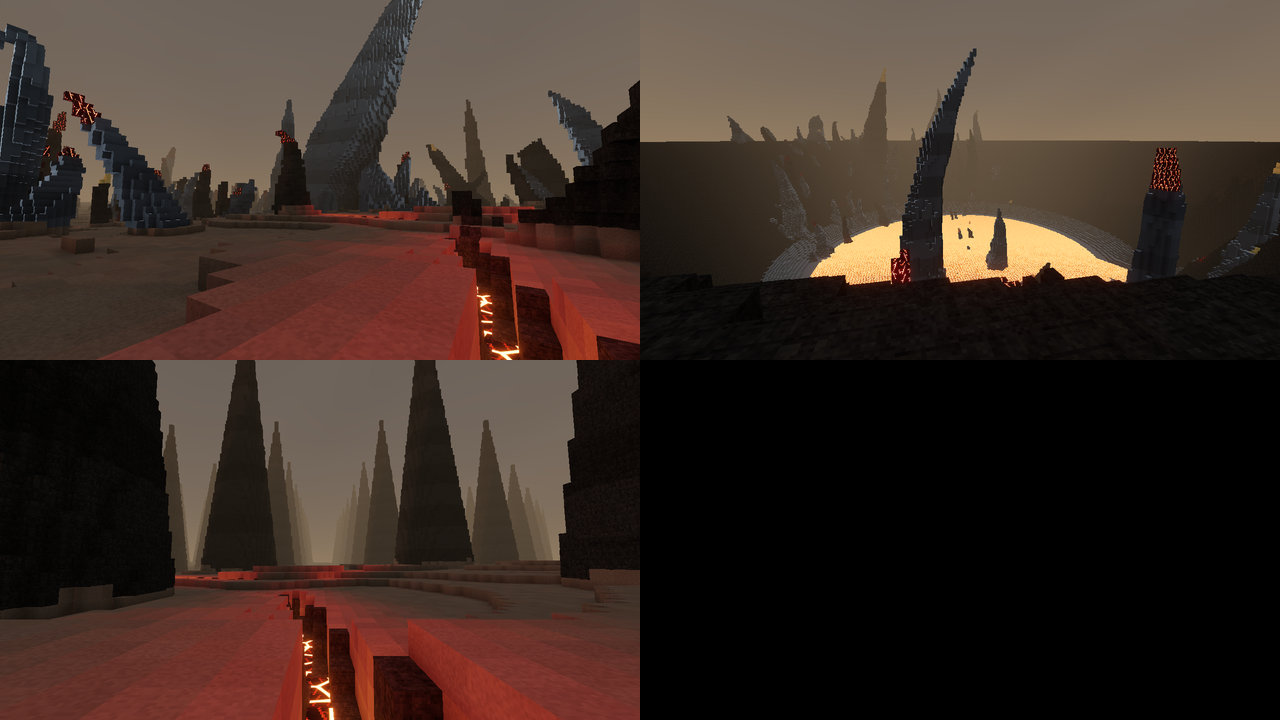
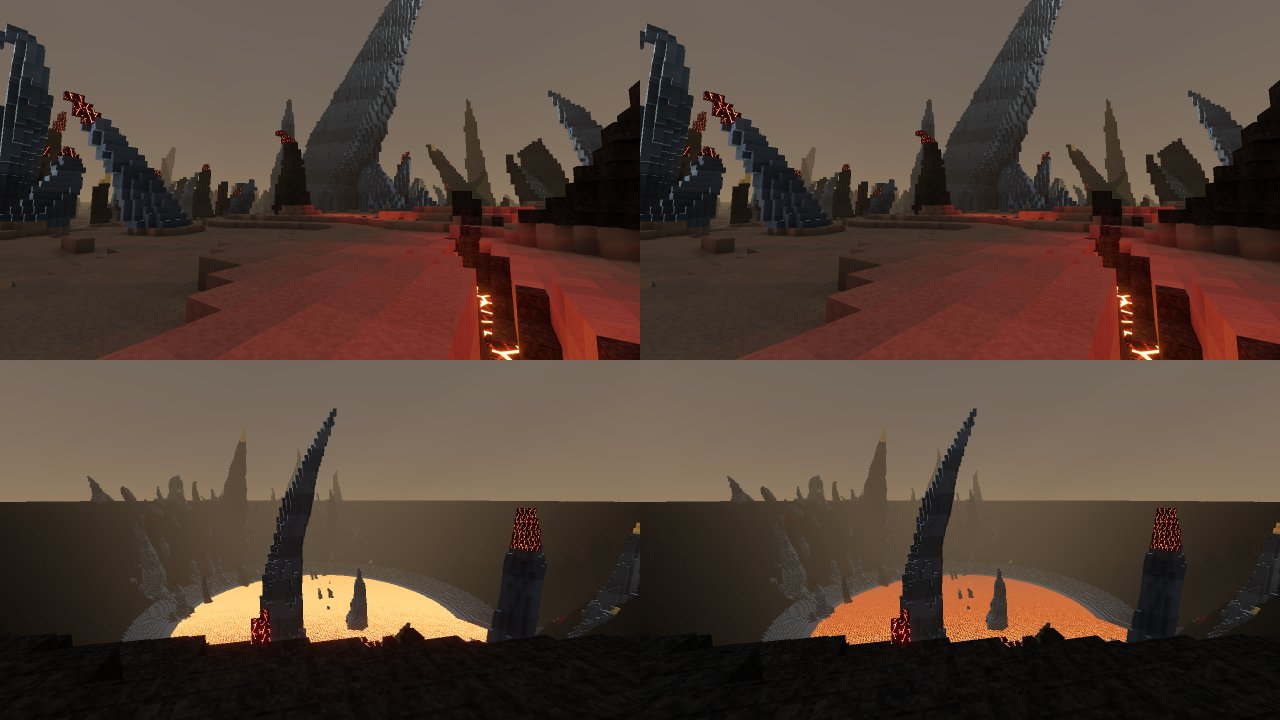
Preserve lava color across distant crack filtering

diff --git a/packages/client/src/engine/terrain-material.ts b/packages/client/src/engine/terrain-material.ts
@@ -26,6 +26,20 @@ export const TERRAIN_EMISSION_SCALE = 8;
 // Red-dominant ember seams need exposure by luminance, not just a red channel
 // above threshold. Keep their authored hue/mask and steady propagated RGB intact.
 export const TERRAIN_EMBER_EMISSION_GAIN = 4;
+// Saved Float32 continuum29 calibration, packed into eight vec4 uniforms.
+// Spacing is 1/64 through w=0.25, then 1/16; no runtime ACES or extra noise.
+export const TERRAIN_LAVA_EMISSION_GAINS = Object.freeze([
+  1, 0.8067225217819214, 0.6518799066543579, 0.5530297160148621,
+  0.4851410984992981, 0.43541669845581055, 0.3972267210483551,
+  0.36684277653694153, 0.34200602769851685, 0.32126790285110474,
+  0.30365172028541565, 0.28847524523735046, 0.27524518966674805,
+  0.2635980248451233, 0.2532569169998169, 0.2440076619386673,
+  0.23568181693553925, 0.2092752754688263, 0.19037340581417084,
+  0.17622464895248413, 0.16531772911548615, 0.15675796568393707,
+  0.14999130368232727, 0.1447933167219162, 0.14088858664035797,
+  0.13798388838768005, 0.13598015904426575, 0.13482238352298737,
+  0.13448631763458252,
+]);
 
 export interface TerrainUniforms {
   readonly viewMode: IUniform<number>;
@@ -99,6 +113,8 @@ export function createTerrainMaterials(clip: Plane): {
     ),
   };
   const gloss = { value: BLOCK_REGISTRY.map((block) => block.gloss) };
+  const lavaGainTable = new Float32Array(32);
+  lavaGainTable.set(TERRAIN_LAVA_EMISSION_GAINS);
   const materials = [0, 1, 2, 3, 4].map((kind) => {
     const material = new MeshLambertMaterial({
       color: new Color(1, 1, 1),
@@ -110,7 +126,7 @@ export function createTerrainMaterials(clip: Plane): {
       clipShadows: true,
     });
     material.customProgramCacheKey = () =>
-      `coldfront-terrain-r186-v3-ibara-class-${kind}${kind === 0 ? "-strata-v2-reflected" : kind === 4 ? "-filtered-lava-v1" : ""}`;
+      `coldfront-terrain-r186-v3-ibara-class-${kind}${kind === 0 ? "-strata-v2-reflected" : kind === 4 ? "-filtered-lava-v1-continuum29-v1" : ""}`;
     material.onBeforeCompile = (shader) => {
       Object.assign(shader.uniforms, {
         uViewMode: uniforms.viewMode,
@@ -129,6 +145,8 @@ export function createTerrainMaterials(clip: Plane): {
         uWaterDepthLinearize: uniforms.waterDepthLinearize,
         uWaterDepthReady: uniforms.waterDepthReady,
       });
+      if (kind === 4)
+        shader.uniforms.uLavaEmissionGains = { value: lavaGainTable };
       shader.vertexShader = shader.vertexShader.replace(
         "#include <common>",
         `#include <common>
@@ -164,6 +182,7 @@ precision highp sampler2DArray;
 precision highp int;
 uniform float uViewMode;
 uniform vec4 uEmission[${BLOCK_REGISTRY.length}];
+${kind === 4 ? "uniform vec4 uLavaEmissionGains[8];" : ""}
 uniform float uGloss[${BLOCK_REGISTRY.length}];
 flat varying highp vec2 vFeatureIdParts;
 uniform sampler2DArray uTiles;
@@ -240,7 +259,7 @@ float cfLavaCrackIntegral(float offset) {
   float d=abs(offset), t=clamp((d-0.025)/0.115,0.0,1.0);
   return sign(offset)*(min(d,0.025)+0.115*(t-t*t*t+0.5*t*t*t*t));
 }
-float cfLavaCracks(vec2 world, float seconds) {
+float cfLavaCracks(vec2 world, float seconds, out float footprintFade) {
   vec2 p=world*0.62 + vec2(seconds*0.018,seconds*0.011);
   p += vec2(cfMacro(world/7.0),cfMacro(world/7.0+17.0))*0.38;
   float footprint=max(length(dFdx(p)),length(dFdy(p)));
@@ -259,7 +278,21 @@ float cfLavaCracks(vec2 world, float seconds) {
   float cracks=clamp((cfLavaCrackIntegral(gap+width*0.5)-cfLavaCrackIntegral(gap-width*0.5))/width,0.0,1.0);
   // Once individual cells approach a pixel, retain the mask's sampled area
   // mean (0.175), not full emission. Near cracks and their motion stay intact.
-  return mix(cracks,0.175,smoothstep(0.25,0.75,footprint));
+  footprintFade=smoothstep(0.25,0.75,footprint);
+  return mix(cracks,0.175,footprintFade);
+}
+${
+  kind === 4
+    ? `float cfLavaEmissionGain(float w) {
+  float scaled=w<0.25 ? w*64.0 : 16.0+(w-0.25)*16.0;
+  int index=int(min(27.0,floor(scaled)));
+  float fraction=scaled-float(index);
+  int next=index+1;
+  float low=uLavaEmissionGains[index/4][index%4];
+  float high=uLavaEmissionGains[next/4][next%4];
+  return mix(low,high,fraction);
+}`
+    : ""
 }`,
       );
       shader.fragmentShader = shader.fragmentShader.replace(
@@ -337,7 +370,8 @@ if(uViewMode<0.5) {
     float breath=1.0+0.1*sin(uDisplay*0.0011+phase);
     ${
       kind === 4
-        ? `float cracks=cfLavaCracks(worldFace,uDisplay*0.001);
+        ? `float lavaFootprintFade;
+    float cracks=cfLavaCracks(worldFace,uDisplay*0.001,lavaFootprintFade);
     outgoingLight *= mix(0.38,0.9,cracks);
     float sourceMask=cracks;`
         : `// P3 marks hot seams by red excess; cool dark crust stays unlit.
@@ -346,6 +380,12 @@ if(uViewMode<0.5) {
     // Shape the registry hue before HDR scaling so hot cracks retain colour
     // through ACES. This is presentation only; source light remains unchanged.
     float renderGain=block==${Block.EmberCrust.toFixed(1)} ? ${TERRAIN_EMBER_EMISSION_GAIN.toFixed(1)} : 1.0;
+    ${
+      kind === 4
+        ? `if(block==${Block.Lava.toFixed(1)} && lavaFootprintFade>0.0)
+      renderGain *= cfLavaEmissionGain(lavaFootprintFade);`
+        : ""
+    }
     outgoingLight += pow(source.rgb,vec3(2.2))*source.a*${TERRAIN_EMISSION_SCALE.toFixed(1)}*renderGain*sourceMask*breath;
   }
 } else if(uViewMode<1.5) {

diff --git a/docs/reports/phase-1-3-lava-continuum.md b/docs/reports/phase-1-3-lava-continuum.md
@@ -1,0 +1,52 @@
+# Distant lava correction · 13 October 2026
+
+The selected material keeps distant lava orange instead of washing it into a pale sheet. Nearby cracks and glow are preserved. This is a rendering change: generation `023af1e…`, the current camera catalogue and saved edits stay unchanged. Publication checks are in progress; the live build is still `3f7e0df`.
+
+## What changed and why
+
+The existing shader averages cracks that become smaller than a screen pixel. Brightness after tone mapping is nonlinear, so averaging the source brightness can make distant lava look brighter than the resolved cracks. A first endpoint-only correction reduced that washout but created a visible middle-distance band; it remains rejected.
+
+The selected version uses 29 fixed gain values across the existing screen-footprint transition. The values match the average displayed luminance of the original resolved crack pattern under the renderer's active ACES curve. They occupy 128 uniform bytes and require two indexed reads and a blend, reusing the existing crack calculation. There is no additional noise search or tone-mapping calculation inside the material. At zero fade, the added gain calculation is skipped. Other material classes, rock layers, propagated lighting, crack spacing and motion coefficients are preserved.
+
+This intentionally reduces unresolved source emission. Its calibration omits real bloom, reflection, fog and per-cell brightness breathing; actual screenshots therefore decide whether it is useful. No GPU speedup is claimed.
+
+## Images inspected
+
+![Lava material comparison](../postcards/wip/ibara.jpg)
+
+Forest above caldera; baseline left, selected material right. Root opens all four originals and this browser-rendered comparison sheet. The 1280×720 JPEG uses 102,880 bytes; the complete WIP folder totals 814,661 bytes.
+
+Root and a fresh Astra reviewer open both full caldera originals and prefer the candidate: less pale washout, richer orange lava and clearer balance with the dark thorns. Neither sees an obvious new seam, hole or hard transition ring in the inspected still. Dense near crackle and a flatter far surface remain.
+
+The same reviewers open the affected forest pair and judge a visual tie. Rock detail, haze and warm fissure illumination are preserved. The forest files differ; this is not a pixel-identity claim.
+
+Four near frames at 0, 250, 1,000 and 4,000 ms are each byte-identical to their baseline partner. All eight originals are opened. These static samples establish preservation at those times, not continuous playback, intermediate-distance behavior or flicker performance.
+
+| Capture | Complete terrain | Readiness | Result |
+|---|---:|---:|---|
+| HELL-2 caldera | 1,624 / 1,624 chunks | 212.322 s | Complete image; the 180-second timing failure remains |
+| HELL-1 forest | 1,306 / 1,306 chunks | 100.589 s | Complete image and passing 180-second check |
+
+Both captures have zero application errors or external requests, with browser/server cleanup. Source-server captures are separate from the production release journey. Existing calibrated scores remain HELL-1 **15/20**, HELL-2 **13/20**; this material comparison assigns no new formal score and does not complete phase 1.3.
+
+## Calibration and retained failures
+
+The fixed 256×256 midpoint sample over `[-64,64)²`, time zero and the original 0.62/m mask yields mean **0.17645149784739714**, compatible with the authored 0.175 under the fixed mean gate. The source-only luminance target is the mean of the tone-mapped resolved samples; each gain solves the same target after the mask is blended toward 0.175. The near gain is 1; the far gain is approximately 0.13448632.
+
+A 17-entry uniformly spaced table fails its interpolation check: maximum absolute luminance error **0.0073581131**, above **0.001**. That receipt remains failed. A separate representation subdivides only the four early intervals implicated by those saved errors: spacing 1/64 through fade 0.25, then 1/16. It reuses all 17 prior gains and the saved mask bytes, solving twelve additional values with no new spatial samples. All 113 fixed validation positions—including the previous 65—pass, with maximum error **0.0008504462**. The limit is unchanged. This finite CPU check does not establish a bound at every fade value or GPU arithmetic parity.
+
+Independent review verifies the active curve, table values, Float32 packing, indexing endpoints and material scope. Six existing shader-contract tests pass. After final formatting, outline/ghost/silhouette captures are regenerated and pass independent inspection, all **88 source bindings** and **8 artifact bindings**. The prior review remains preserved. This adds no interface words or controls and is not a new full-gallery claim.
+
+All **790 tests in 93 files** pass in **252.300 s**. The first check fails only on formatting of the new table and uniform assignment. Biome fixes it; parser-aware comparison confirms all **1,278 leaf tokens**, including template contents, remain identical, with a numeric-mutation sensitivity check. The initial standalone-scanner attempt cannot handle nested template context and is retained as a failed comparison method. The final **check/build pass in 17.898/7.735 s**. UI lint reports **106 gallery states, zero missing current rows and 23 bindings**. Existing 79 lint warnings and two informational notices remain.
+
+## Evidence and release work
+
[4 lines of base64/hex data omitted]
+- Canonical near evidence: `out/phase13/lava-near-proof/runs/2026-10-13T15-26-43.228Z/`, compared with `2026-10-13T07-59-45.938Z/`.
+- Reviews: `out/phase13/lava-continuum-pixel-review.md` and `out/phase13/continuum-formatted-hud-review/`.
+- Numeric studies: `D:/Dex/Temp/coldfront-lava-energy-0435cee/out/lava-energy/continuum-only/` (failed) and `continuum29/` (finite check passed).
+
+Local test/check/build are complete. Clean-checkout build, production gameplay journey, CI and publication readback must finish before this increment is reported live. The unchanged generator's atlas, slices and complete CPU benchmark remain applicable. The separately preferred branch-quota study is not included in this material release.

diff --git a/docs/progress.md b/docs/progress.md
@@ -23,6 +23,12 @@
 ## Current session
 **13 October 2026 · Codex · `codex/phase-1-3-world`**
 
+**Local material gates pass:** 790 tests / 93 files in **252.300 s**; after a formatting-only correction, check/build pass in **17.898/7.735 s**. The code's 1,278 parsed tokens are unchanged by formatting. UI lint reports 106 states, zero missing current rows and 23 bindings. Final refreshed HUD images pass independent review with 88 source and eight artifact bindings. Clean release build and production journey are next; no live-publication claim yet.
+
+**Selected lava correction, release checks running:** a derived 29-value brightness table reduces distant pale washout while preserving all four near-frame PNGs exactly. Root and fresh Astra prefer the full caldera comparison and judge the forest pair unchanged in appearance. All 1,624 caldera chunks load in **212.322 s** (180-second failure retained); all 1,306 forest chunks load in **100.589 s** (pass). The shader and refreshed HUD evidence are integrated locally; live remains `3f7e0df` until publication. [Evidence and preserved failed variants](reports/phase-1-3-lava-continuum.md).
+
+**Branch quota remains separate:** all 37 affected tests pass. Root and fresh Astra prefer its four-angle specimen and full caldera view; the latter scores **15/20 with R2=2** for both, still below the mandatory 16. The actual full capture loads all 1,624 chunks in **162.843 s**, with zero application errors. Three-seed parameter reports pass all eight bands, but remain explicitly incomplete without their remaining terrain checks. A single detached main cell appears in both translated fixture arms; the new branch's 560 cells attach correctly. This fixture failure is preserved and does not establish the real-world singleton's presence or cleanup. No quota generation change is integrated or published.
+
 **Latest material check:** the original-spacing emission trial builds, loads all 1,624 caldera chunks in **236.925 s** and preserves all four near-frame PNGs exactly. Root and fresh Astra open ten originals. The far lake is less washed out, but a new middle-distance color band fails the declared transition condition, so the candidate stays unintegrated. Source calibration and near preservation do not override that visible defect. The next anatomy check examines whether an existing branch role can move to the tallest eligible member of the same cluster, preserving the branch population and original crater layout; no generation change is accepted yet.
 
 
